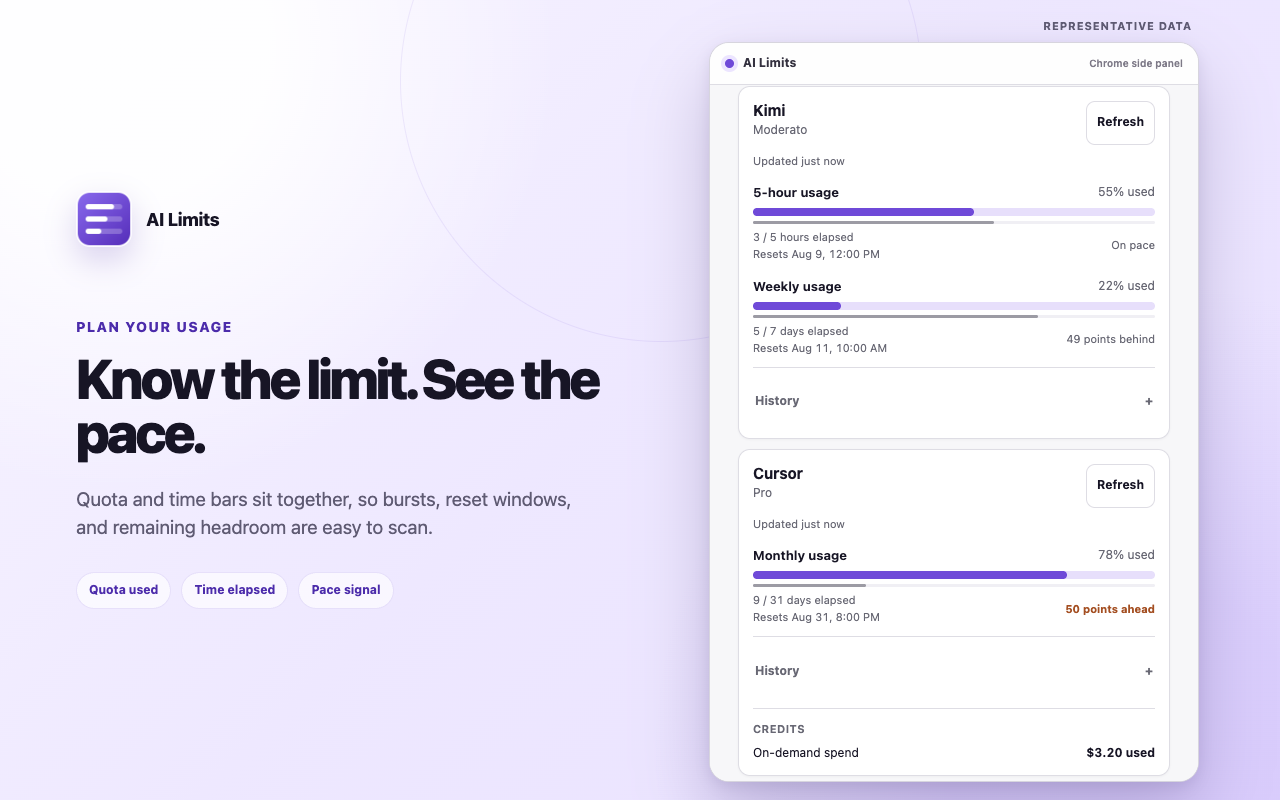
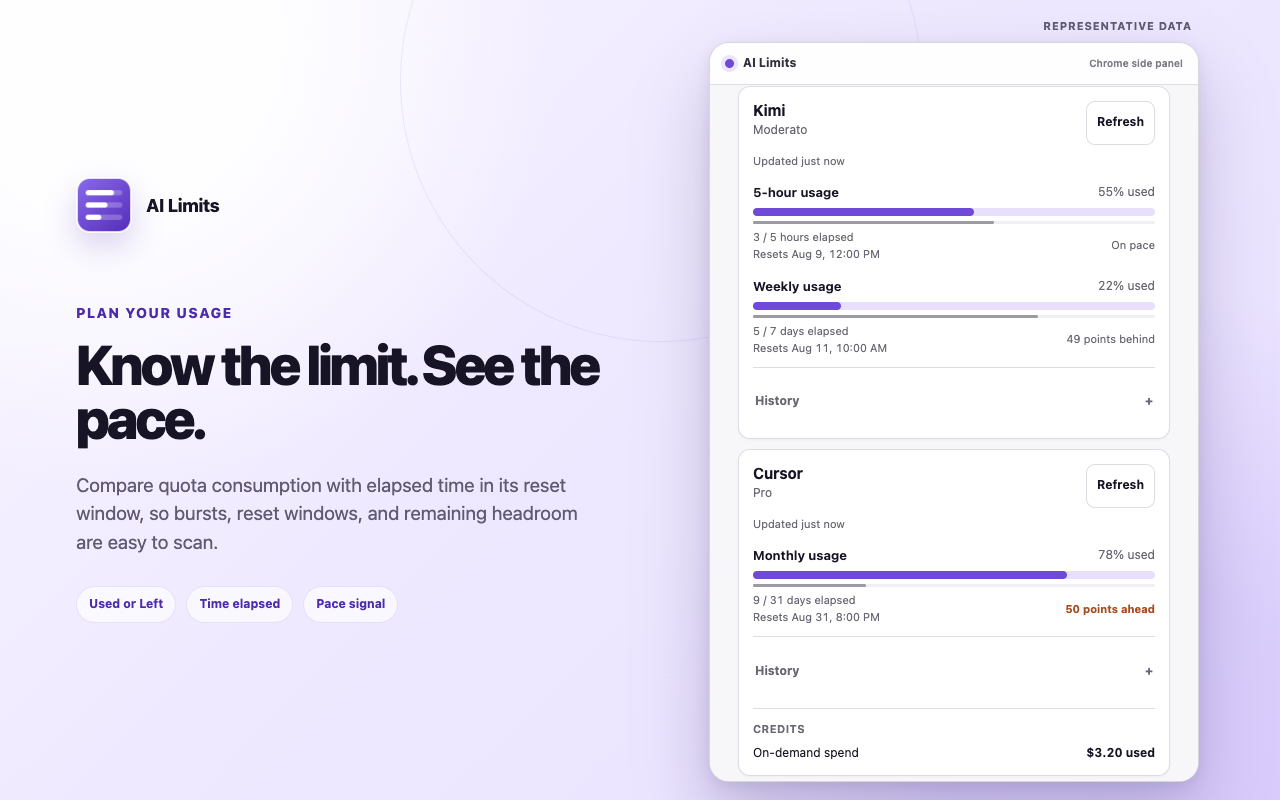
docs: clarify usage pacing and history

diff --git a/store-assets/preview/copy.ts b/store-assets/preview/copy.ts
@@ -21,13 +21,13 @@ export const previewContent: Record<PreviewLanguage, PreviewContent> = {
       eyebrow: "One Chrome side panel",
       title: "Every AI limit, in one quiet view.",
       description:
-        "See subscription usage, reset timing, and plan details without hopping between account pages.",
+        "See every provider as Used or Left, with reset timing, plan details, and local History—without hopping between account pages.",
     },
     pacing: {
       eyebrow: "Plan your usage",
       title: "Know the limit. See the pace.",
       description:
-        "Quota and time bars sit together, so bursts, reset windows, and remaining headroom are easy to scan.",
+        "Compare quota consumption with elapsed time in its reset window, so bursts, reset windows, and remaining headroom are easy to scan.",
     },
     privacy: {
       eyebrow: "Local by design",
@@ -38,10 +38,10 @@ export const previewContent: Record<PreviewLanguage, PreviewContent> = {
     promo: {
       eyebrow: "Chrome side panel",
       title: "AI limits, at a glance.",
-      description: "Usage and reset timing for your AI subscriptions.",
+      description: "Used or Left, reset timing, pace, and local history for your AI subscriptions.",
     },
     chromeSidePanelLabel: "Chrome side panel",
-    pacingNotes: ["Quota used", "Time elapsed", "Pace signal"],
+    pacingNotes: ["Used or Left", "Time elapsed", "Pace signal"],
     privacyNotes: [
       "Provider access is opt-in",
       "Normalized usage stays local",
@@ -55,13 +55,13 @@ export const previewContent: Record<PreviewLanguage, PreviewContent> = {
       eyebrow: "一个 Chrome 侧边栏",
       title: "AI 用量限制，一目了然。",
       description:
-        "无需在各个账户页面之间切换，即可查看订阅用量、重置时间和套餐详情。",
+        "无需在各个账户页面之间切换，即可统一查看已用或剩余、重置时间、套餐详情和本地历史。",
     },
     pacing: {
       eyebrow: "规划你的用量",
       title: "看清上限，掌握节奏。",
       description:
-        "配额与时间进度并排呈现，用量高峰、重置周期和剩余额度都能快速掌握。",
+        "将配额消耗与重置周期内已过的时间放在一起看，用量高峰、重置周期和剩余额度都能快速掌握。",
     },
     privacy: {
       eyebrow: "数据仅存本地",
@@ -72,10 +72,10 @@ export const previewContent: Record<PreviewLanguage, PreviewContent> = {
     promo: {
       eyebrow: "Chrome 侧边栏",
       title: "AI 用量，一目了然。",
-      description: "集中查看 AI 订阅用量和重置时间。",
+      description: "集中查看已用或剩余、重置时间、用量节奏和本地历史。",
     },
     chromeSidePanelLabel: "Chrome 侧边栏",
-    pacingNotes: ["已用配额", "已过时间", "用量节奏"],
+    pacingNotes: ["已用或剩余", "已过时间", "用量节奏"],
     privacyNotes: [
       "服务访问需主动授权",
       "标准化用量数据仅存本地",

diff --git a/STORE_LISTING.md b/STORE_LISTING.md
@@ -36,13 +36,14 @@ Regeneration and validation instructions are in
 ## Single purpose
 
 AI Limits gives a user one Chrome side panel for viewing current subscription
-usage, reset timing, and local quota-history graphs from four provider accounts
-already signed in within that user's browser profile.
+usage as **Used** or **Left**, reset timing, pace, and local quota-history
+graphs from four provider accounts already signed in within that user's browser
+profile.
 
 ## Short description
 
-See current ChatGPT, Claude, Kimi, and Cursor usage and local quota history in
-one Chrome side panel.
+See ChatGPT, Claude, Kimi, and Cursor usage as Used or Left, reset timing,
+pace, and local quota history in one Chrome side panel.
 
 ## Detailed description
 
@@ -51,6 +52,14 @@ account pages. Connect ChatGPT, Claude, Kimi, or Cursor individually, approve
 that provider's optional access, and view the usage windows, reset times,
 credits, and plan labels that the provider makes available to the signed-in web
 session.
+
+Providers use different conventions: some report quota consumed, while others
+report quota remaining. AI Limits normalizes them into a single display and lets
+the user switch between **Used** and **Left** without changing stored data. For
+quota windows that include both a reliable start and reset time, a pace signal
+compares the quota consumed with the elapsed part of that window. When either
+boundary is unavailable, the extension leaves pace unavailable instead of
+estimating it.
 
 Each connected provider card includes a collapsed History control for local
 quota graphs. Successful normalized quota observations are stored locally for

diff --git a/README.zh-CN.md b/README.zh-CN.md
@@ -3,9 +3,10 @@
 [English](README.md) | 简体中文
 
 AI Limits 是一款 Chrome 侧边栏扩展，可在一个紧凑的界面中查看 ChatGPT、
-Claude、Kimi 和 Cursor 的当前订阅用量及本地配额历史图表。扩展初始不读取
-任何数据；只有当你主动连接某个服务并批准该服务的可选访问权限后，才会读取
-其用量。
+Claude、Kimi 和 Cursor 的当前订阅用量及本地配额历史图表。它会将不同服务商
+的用量统一为“已用”或“剩余”视图；当服务商提供完整的重置周期信息时，还会将
+配额消耗与已过时间比较，显示用量节奏。扩展初始不读取任何数据；只有当你主动
+连接某个服务并批准该服务的可选访问权限后，才会读取其用量。
 
 AI Limits 是 wjcjttl 开发的独立项目，与 OpenAI、Anthropic、Moonshot AI、
 Cursor 或其关联公司不存在隶属、背书或授权关系。
@@ -13,7 +14,7 @@ Cursor 或其关联公司不存在隶属、背书或授权关系。
 > 当前扩展界面为英文。下图的中文文字是项目介绍文案；嵌入的实际扩展界面
 > 仍为英文。后续完成扩展本身的简体中文支持后，我们会重新生成截图。
 
-![AI Limits Chrome 侧边栏展示示例订阅用量、重置时间和用量节奏](store-assets/chrome-web-store/zh_CN/screenshot-overview-1280x800.png)
+![AI Limits Chrome 侧边栏展示示例已用视图、订阅用量、重置时间、用量节奏和 History 控件](store-assets/chrome-web-store/zh_CN/screenshot-overview-1280x800.png)
 
 ## 工作原理
 

diff --git a/README.md b/README.md
@@ -4,14 +4,17 @@ English | [简体中文](README.zh-CN.md)
 
 AI Limits is a Chrome side-panel extension that shows current subscription
 usage and local quota-history graphs for ChatGPT, Claude, Kimi, and Cursor in
-one compact view. It starts empty and reads usage only after you connect an
-individual provider and approve that provider's optional access.
+one compact view. It normalizes provider-specific reporting into one **Used**
+or **Left** display and, when a provider exposes a complete reset window,
+compares quota consumption with elapsed time to show a pace signal. It starts
+empty and reads usage only after you connect an individual provider and approve
+that provider's optional access.
 
 AI Limits is an independent project by wjcjttl. It is not affiliated with,
 endorsed by, or authorized by OpenAI, Anthropic, Moonshot AI, Cursor, or their
 affiliates.
 
-![AI Limits Chrome side panel showing representative subscription usage, reset timing, and pace indicators](store-assets/chrome-web-store/screenshot-overview-1280x800.png)
+![AI Limits Chrome side panel showing representative subscription usage in Used mode, reset timing, pace indicators, and the History control](store-assets/chrome-web-store/screenshot-overview-1280x800.png)
 
 ## How it works
 
